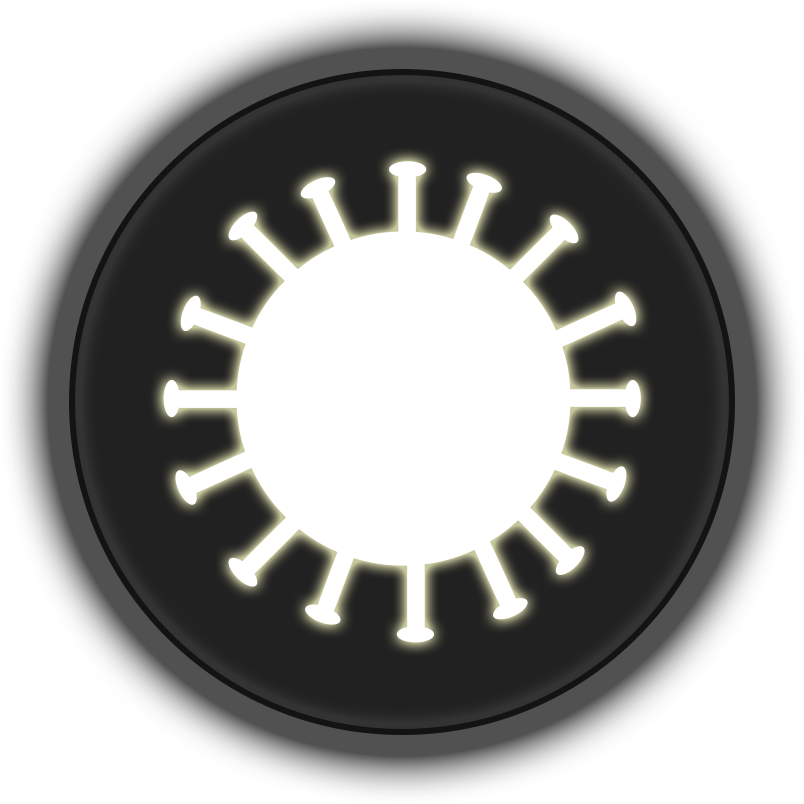
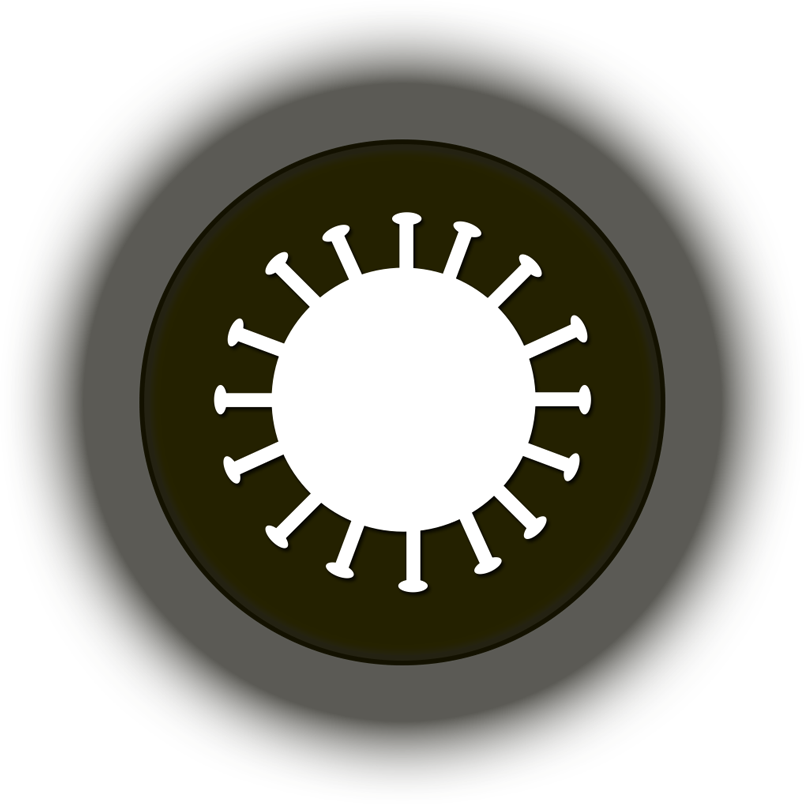
Updated disease images

diff --git a/src/utils.js b/src/utils.js
@@ -17,22 +17,22 @@ export function mapCoords(coords, width = map.width, height = map.height) {
 }
 
 export function getPathCoords(loc, width = map.width, height = map.height) {
-  return mapCoords([loc.coords[0], loc.coords[1] + 4], width, height);
+  return mapCoords(loc.coords, width, height);
 }
 
 export function getLocationOrigin(loc, width = map.width, height = map.height) {
   const ratio = getMapRatio(width, height);
-  return { top: (loc.coords[0] - 16) * ratio, left: (loc.coords[1] - 16) * ratio };
+  return { top: loc.coords[0] * ratio - 16, left: loc.coords[1] * ratio - 16 };
 }
 
 export function getCubeOrigin(loc, width = map.width, height = map.height) {
   const ratio = getMapRatio(width, height);
-  return { top: (loc.coords[0] - 12) * ratio, left: (loc.coords[1] - 12) * ratio };
+  return { top: loc.coords[0] * ratio - 12, left: loc.coords[1] * ratio - 12 };
 }
 
 export function getInfectionCardOrigin(loc, width = map.width, height = map.height) {
   const ratio = getMapRatio(width, height);
-  return { top: (loc.coords[0] - 16) * ratio, left: (loc.coords[1] - 16 + 20) * ratio };
+  return { top: loc.coords[0] * ratio - 16, left: loc.coords[1] * ratio + 10 };
 }
 
 export function splitPath([x1, y1], [x2, y2], width) {

diff --git a/src/assets/styles/styles.scss b/src/assets/styles/styles.scss
@@ -65,13 +65,13 @@ body {
 @keyframes cube {
   0% {
     transform: rotate(0deg)
-               translate(14px)
+               translate(20px)
                rotate(0deg);
   }
 
   100% {
     transform: rotate(360deg)
-               translate(14px)
+               translate(20px)
                rotate(-720deg);
   }
 }
@@ -376,7 +376,7 @@ body {
 
         @each $disease in $diseases-list {
           &.disease-#{$disease} {
-            content: url('../images/city_#{$disease}.png');
+            content: url('../images/disease_large_#{$disease}.png');
           }
         }
       }
@@ -595,7 +595,7 @@ body {
 
         @each $disease in $diseases-list {
           &.#{$disease} {
-            background-image: url('../images/city_#{$disease}.png');
+            background-image: url('../images/disease_large_#{$disease}.png');
           }
         }
       }

diff --git a/src/reducers/initialState.js b/src/reducers/initialState.js
@@ -216,7 +216,7 @@ export default {
         station: true
       },
       3: {
-        coords: [195, 410],
+        coords: [185, 410],
         yellow: 0,
         red: 0,
         black: 0,
@@ -398,7 +398,7 @@ export default {
         blue: 0
       },
       29: {
-        coords: [185, 900],
+        coords: [200, 900],
         yellow: 0,
         red: 0,
         black: 0,
